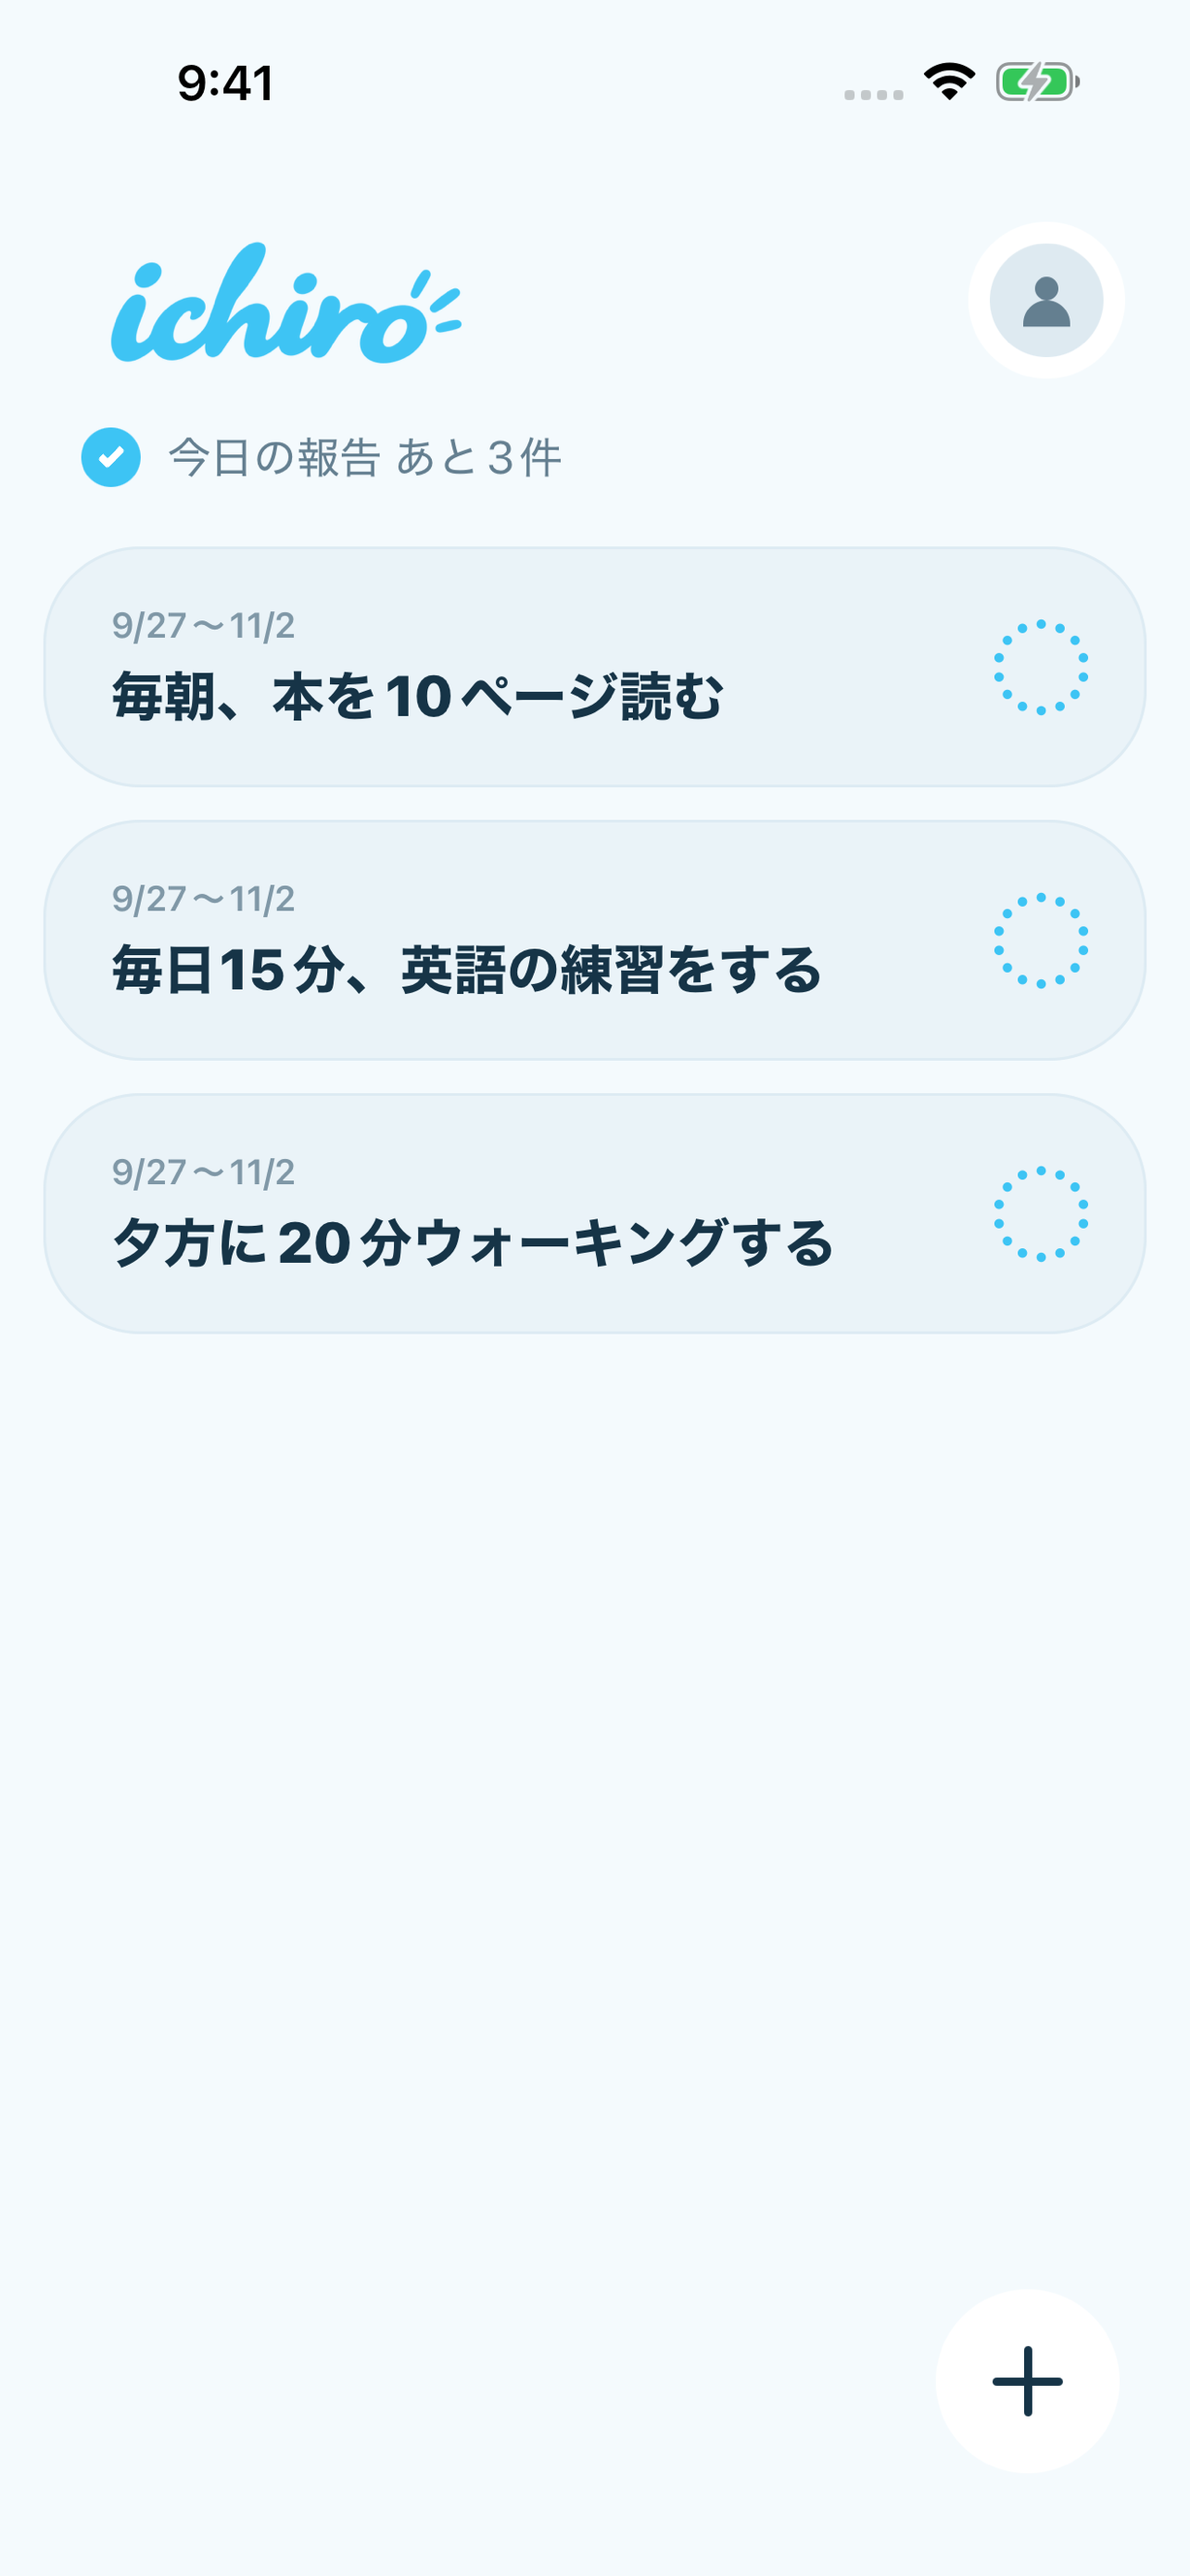
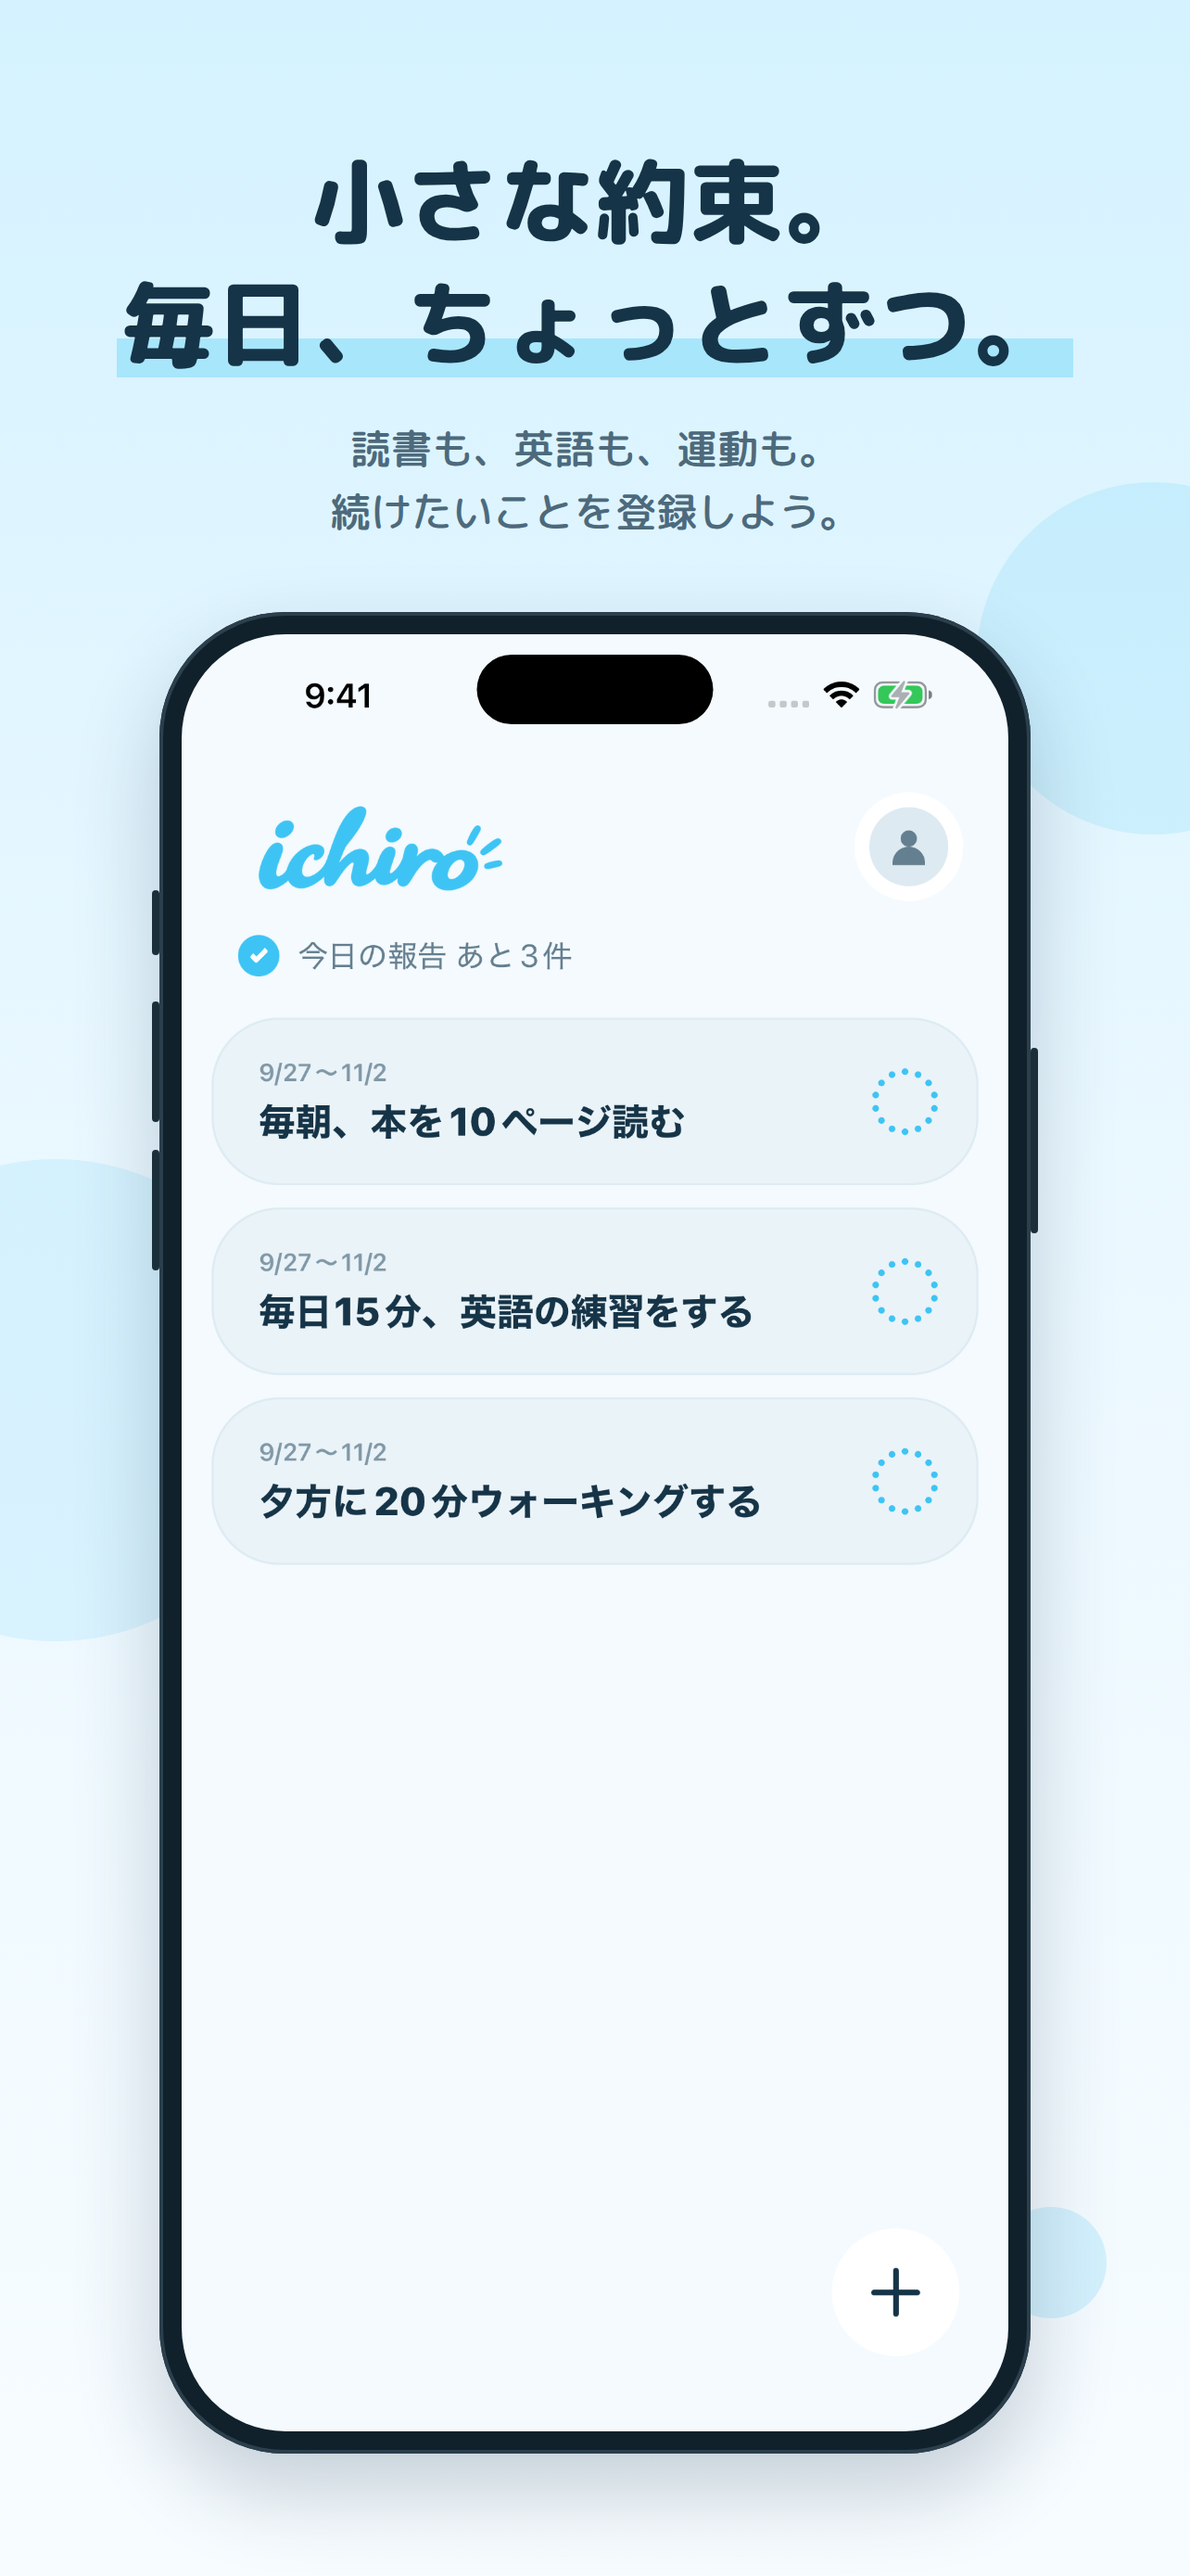
App Store 6.5インチ枠用に見出し付きのスクリーンショットを作成
iphone-6.9 のネイティブ画面キャプチャを端末フレームに収め、LP の文言に
合わせた見出しと説明文を載せた 1284 × 2778 px の3枚に差し替えた。
生成スクリプト scripts/render-app-store-screenshots.mjs を追加。

Claude-Session: https://claude.ai/code/session_01VH2VzfwTrowNk5tAZjM9Ac

diff --git a/artifacts/app-store/2026-10-03/README.md b/artifacts/app-store/2026-10-03/README.md
@@ -1,10 +1,24 @@
 # App Store 用スクリーンショット
 
-1284 × 2778 px を要求する提出枠には `iphone-6.5/` の3枚を使用する。透過なしの sRGB PNG。元画像の縦横比を維持して縮小し、上下の余白を約6 pxずつ切り落としている。
+## iPhone 6.5インチ枠
+
+1284 × 2778 px を要求する提出枠には `iphone-6.5/` の3枚を使用する。透過なしの sRGB PNG。`iphone-6.9/` のネイティブ画面キャプチャを端末フレームに収め、上部に見出しと説明文を載せている。画面内の UI は描き直していない。
+
+1. `iphone-6.5/01-commitments.png` — 小さな約束。毎日、ちょっとずつ。（目標一覧）
+2. `iphone-6.5/02-progress.png` — できたら、タップで報告。（連続達成と今日の報告）
+3. `iphone-6.5/03-celebration.png` — 続くと、うれしい。（ワンちゃんのお祝い）
+
+見出しは LP の文言に合わせた。フォントは M PLUS Rounded 1c（SIL Open Font License、Google Fonts）。
+
+再書き出し（リポジトリルートから実行。Playwright と Chromium、フォント取得のためのネットワーク接続が必要）:
 
 ```sh
-swift scripts/prepare-app-store-images.swift --iphone-6.5 artifacts/app-store/2026-10-03/iphone-6.9/*.png
+node scripts/render-app-store-screenshots.mjs artifacts/app-store/2026-10-03/iphone-6.9 artifacts/app-store/2026-10-03/iphone-6.5
 ```
+
+`scripts/prepare-app-store-images.swift --iphone-6.5` は単純な縮小版で `iphone-6.5/` を上書きするため、この枠では使わない。
+
+## iPhone 6.9インチ枠
 
 iPhone 6.9インチ枠用の3枚。1320 × 2868 px、透過なしの sRGB PNG。
 
